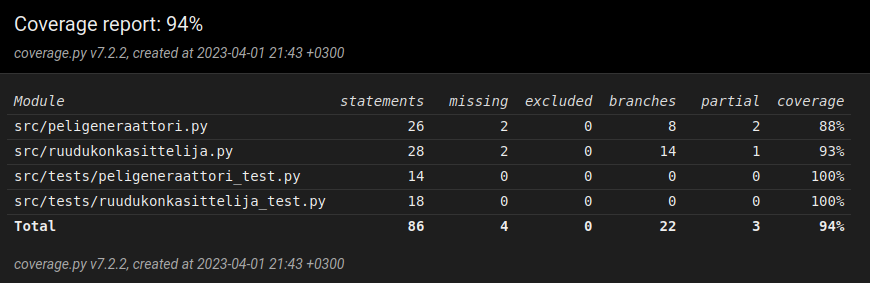
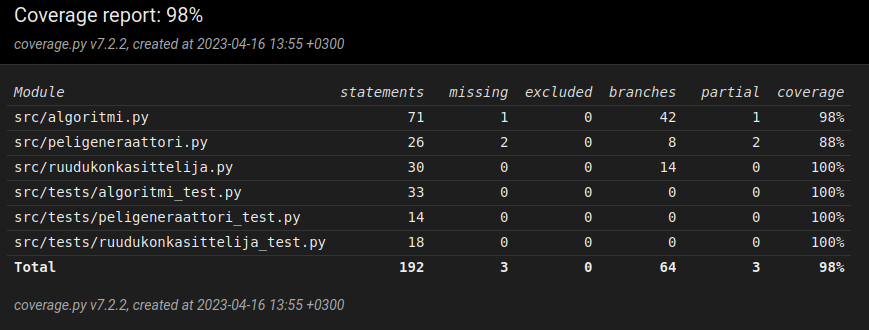
add algoritmi

diff --git a/15peli/src/algoritmi.py b/15peli/src/algoritmi.py
@@ -1,0 +1,98 @@
+from ruudukonkasittelija import Ruudukonkasittelija
+class Algoritmi:
+
+    def __init__(self):
+        self.komennot = ["Up", "Left", "Down", "Right"]
+        self.kasittelija = None
+        self.solmut = 0
+        self.oikeatpaikat = {
+            1:(0,0), 2:(0,1), 3:(0,2), 4:(0,3),
+            5:(1,0), 6:(1,1), 7:(1,2), 8:(1,3),
+            9:(2,0), 10:(2,1), 11:(2,2), 12:(2,3),
+            13:(3,0), 14:(3,1), 15:(3,2), 0:(3,3)
+            }
+        self.paamaara = [[1,2,3,4],[5,6,7,8],[9,10,11,12],[13,14,15,0]]
+
+    def manhattaninetaisyydet(self, matriisi):
+        etaisyys = 0
+        for i in range(4):
+            for j in range(4):
+                numero = matriisi[i][j]
+                if numero != 0:
+                    etaisyys += abs(i-self.oikeatpaikat[numero][0])
+                    etaisyys += abs(j-self.oikeatpaikat[numero][1])
+        return etaisyys
+
+    def konfliktit(self, matriisi):
+        maara = 0
+        for i in range(4):
+            rivilla = []
+            sarakkeella = []
+
+            for j in range(4):
+                numero_r = matriisi[i][j]
+                numero_s = matriisi[j][i]
+
+                if self.oikeatpaikat[numero_r][0] == i and numero_r != 0:
+                    if len(rivilla) > 0:
+                        for numero in rivilla:
+                            if numero > numero_r:
+                                maara += 1
+                    rivilla.append(numero_r)
+
+                if self.oikeatpaikat[numero_s][1] == i and numero_s != 0:
+                    if len(sarakkeella) > 0:
+                        for numero in sarakkeella:
+                            if numero > numero_s:
+                                maara += 1
+                    sarakkeella.append(numero_s)
+
+        return maara
+
+    def ida_star(self, matriisi):
+        self.kasittelija = Ruudukonkasittelija()
+
+        kynnys = self.manhattaninetaisyydet(matriisi) + (self.konfliktit(matriisi)*2)
+
+        while True:
+            self.solmut = 0
+            arvio = self.ida_star_rekursio(matriisi=matriisi, syvyys=0,
+                                            kynnys=kynnys, kielletty_k="")
+
+            if arvio <= 0:
+                return -arvio, self.solmut
+
+            kynnys = arvio
+
+
+
+    def ida_star_rekursio(self, matriisi, syvyys, kynnys, kielletty_k):
+
+        self.solmut += 1
+
+        if matriisi == self.paamaara:
+            return -syvyys
+
+        arvio = syvyys + self.manhattaninetaisyydet(matriisi) + (self.konfliktit(matriisi)*2)
+        if arvio > kynnys:
+            return arvio
+
+        pienin_arvio = 999
+        i = -1
+        for komento in self.komennot:
+            i += 1
+
+            if komento == kielletty_k:
+                continue
+
+            seuraava = self.kasittelija.tee_siirto(matriisi, komento)
+
+            if seuraava == matriisi:
+                continue
+
+            arvio = self.ida_star_rekursio(seuraava, syvyys+1, kynnys, self.komennot[i-2])
+
+            if arvio < pienin_arvio:
+                pienin_arvio = arvio
+
+        return pienin_arvio

diff --git a/15peli/src/tests/algoritmi_test.py b/15peli/src/tests/algoritmi_test.py
@@ -1,0 +1,82 @@
+#pylint: skip-file
+import unittest
+from algoritmi import Algoritmi
+
+class TestAlgoritmi(unittest.TestCase):
+    def setUp(self):
+        self.algoritmi = Algoritmi()
+    
+    def test_palauttaa_oikean_etaisyyden_0(self):
+        matriisi = [
+            [1,2,3,4],
+            [5,6,7,8],
+            [9,10,11,12],
+            [13,14,15,0]
+            ]
+        etaisyys = self.algoritmi.manhattaninetaisyydet(matriisi)
+        self.assertEqual(etaisyys, 0)
+    
+    def test_palauttaa_oikean_etaisyyden_max(self):
+        matriisi = [
+            [0,15,14,13],
+            [12,11,10,9],
+            [8,7,6,5],
+            [4,3,2,1]
+            ]
+        etaisyys = self.algoritmi.manhattaninetaisyydet(matriisi)
+        self.assertEqual(etaisyys, 58)
+    
+    def test_ratkaisu_löytyy_valmiilla_pelillä(self):
+        matriisi = [
+            [1,2,3,4],
+            [5,6,7,8],
+            [9,10,11,12],
+            [13,14,15,0]
+            ]
+        syvyys, solmut = self.algoritmi.ida_star(matriisi)
+
+        self.assertEqual(syvyys, 0)
+    
+    def test_ratkaisu_löytyy_yksinkertaisella_pelillä(self):
+        matriisi = [
+            [2,3,4,8],
+            [1,6,7,12],
+            [5,10,11,0],
+            [9,13,14,15]
+            ]
+        syvyys, solmut = self.algoritmi.ida_star(matriisi)
+
+        self.assertEqual(syvyys, 11)
+
+    def test_ratkaisu_löytyy_syvyys_35(self):
+        matriisi = [
+        [1,10,15,4],
+        [13,6,3,8],
+        [2,9,12,7],
+        [14,5,0,11]
+        ]
+        syvyys, solmut = self.algoritmi.ida_star(matriisi)
+
+        self.assertEqual(syvyys, 35)
+    
+    def test_ei_virhellisiä_konflikteja(self):
+        matriisi = [
+            [1,2,3,4],
+            [5,6,7,8],
+            [9,10,11,12],
+            [13,14,15,0]
+            ]
+        maara = self.algoritmi.konfliktit(matriisi)
+
+        self.assertEqual(maara, 0)
+
+    def test_konfliktit_loytyvat(self):
+        matriisi = [
+        [1,10,15,4],
+        [13,6,3,8],
+        [2,9,12,7],
+        [14,5,0,11]
+        ]
+        maara = self.algoritmi.konfliktit(matriisi)
+
+        self.assertEqual(maara, 2)

diff --git a/15peli/src/ruudukonkasittelija.py b/15peli/src/ruudukonkasittelija.py
@@ -1,4 +1,6 @@
-"""ei ulkoisia kirjastoja"""
+"""deepcopy metodia käytetään koska siirtoa tehdessä alkuperäistä
+    matriisia ei haluta muuttaa"""
+from copy import deepcopy
 
 class Ruudukonkasittelija:
     """Luokka joka käsittelee peliruudukon siirtoja"""
@@ -7,11 +9,11 @@ class Ruudukonkasittelija:
         """konstruktori"""
 
     def tee_siirto(self, ruudukko, siirto):
-        """metodi siitää ruudukkua annettuun suuntaan
+        """metodi kopioi ruudukon ja palauttaa kopion jolle siirto on toteutettu
         args:
             n_s:
                 "nollan sijainti" ruudukkomatriisissa"""
-
+        ruudukko = deepcopy(ruudukko)
         n_s = self.etsi_nolla(ruudukko)
         try:
             if siirto == "Up":

diff --git a/15peli/src/tests/peligeneraattori_test.py b/15peli/src/tests/peligeneraattori_test.py
@@ -26,3 +26,4 @@ class TestPeligeneraattori(unittest.TestCase):
             ]
         saatu_matriisi = self.generaattori.generoi_ruudukko()
         self.assertNotEqual(ei_satunnaninen_matriisi, saatu_matriisi)
+    

diff --git a/Dokumentaatio/Viikkoraportti_4.md b/Dokumentaatio/Viikkoraportti_4.md
@@ -1,0 +1,29 @@
+# Viiko 4
+
+[Tuntiraportti](https://github.com/EliasTHelsinginYliopisto/15PelinRatkaisija/blob/main/Dokumentaatio/Tuntiraportti.md)
+
+## Mitä tehty tällä viikolla
+* Ratkaisualgoritmi on luotu ja sen aikavaatimus on tehostettu tyydyttäväksi 
+    * ratkaisee testauksessa käytettyä 35 askeleen ratkaisun 0.6 sekunnissa
+
+## Edistyminen
+
+## Mitä olen oppinut
+* olen oppinut soveltamaan IDA* algoritmiä projektiin
+* olen kehittänyt ongelmanratkaisutaitojani ohjelmoidessa ja kykyäni ohjelmoida rekursiivisiä algoritmejä
+
+## Ongelmat/Kysymykset/Vaikeudet
+* Alkuperäinen ratkaisualgoritmi ei kyennyt ratkaisemaan peliä kohtuullisessa ajassa, algoritmiä on tehostettu seuraavasti:
+    * Manhattanin etäisyys-heurestiikka on muutettu Walking distance-heurestiikaksi
+    * jos siirto ei muuta peliruudukkoa, siirolle ei toteuteta rekursiota
+    * Ratkaisija ei toteuta siirtoja joiden tila on sama kuin edellinen solmu
+* Konfliktit laskeva metodi ei ole selkeä
+* siirtojen tekeminen on hidasta koska matriisista pitää aina tehdä kopio   
+
+
+## Mitä seuraavaksi
+- Algoritmin liittäminen käyttöliittymään
+- Algoritmin testausta
+- Metodin luominen, joka tarkistaa onko pelitila ratkaistavissa
+- Algoritmin muokkaaminen siten että se palauttaa kuljetun reitin
+

diff --git a/Dokumentaatio/Tuntiraportti.md b/Dokumentaatio/Tuntiraportti.md
@@ -23,3 +23,12 @@ Päivä       | Aika  | Tavoite   |
 31.3.2023   | 2h    | Lisää ruudukongenerointi |
 1.4.2023    | 4h    | Lisää ruutujen siirtäminen ja testejä |
 2.4.2023    | 1h    | Suunnittelua |
+
+## Viikko 4
+
+Päivä       | Aika  | Tavoite   |
+------------|-------|-----------|
+12.4.2023   | 1h    | heurestiikan lisäys |
+14.4.2023   | 5h    | ratkaisijan toteutus |
+15.4.2023   | 2h    | ratkaisijan tehostus |
+16.4.2023   | -h    | testausta, dokumentointia |

diff --git a/Dokumentaatio/Viikkoraportti_3.md b/Dokumentaatio/Viikkoraportti_3.md
@@ -24,3 +24,4 @@ ensi palautukseen:
 * lisään ratkaisijan ja toteutan sitä mahdollisimman pitkälle
 * aloitan toteutusdokumentin kirjoittamisen
 * testaan käyttöliittymän metodit
+* refaktorointia ja testauksen laajentamista
